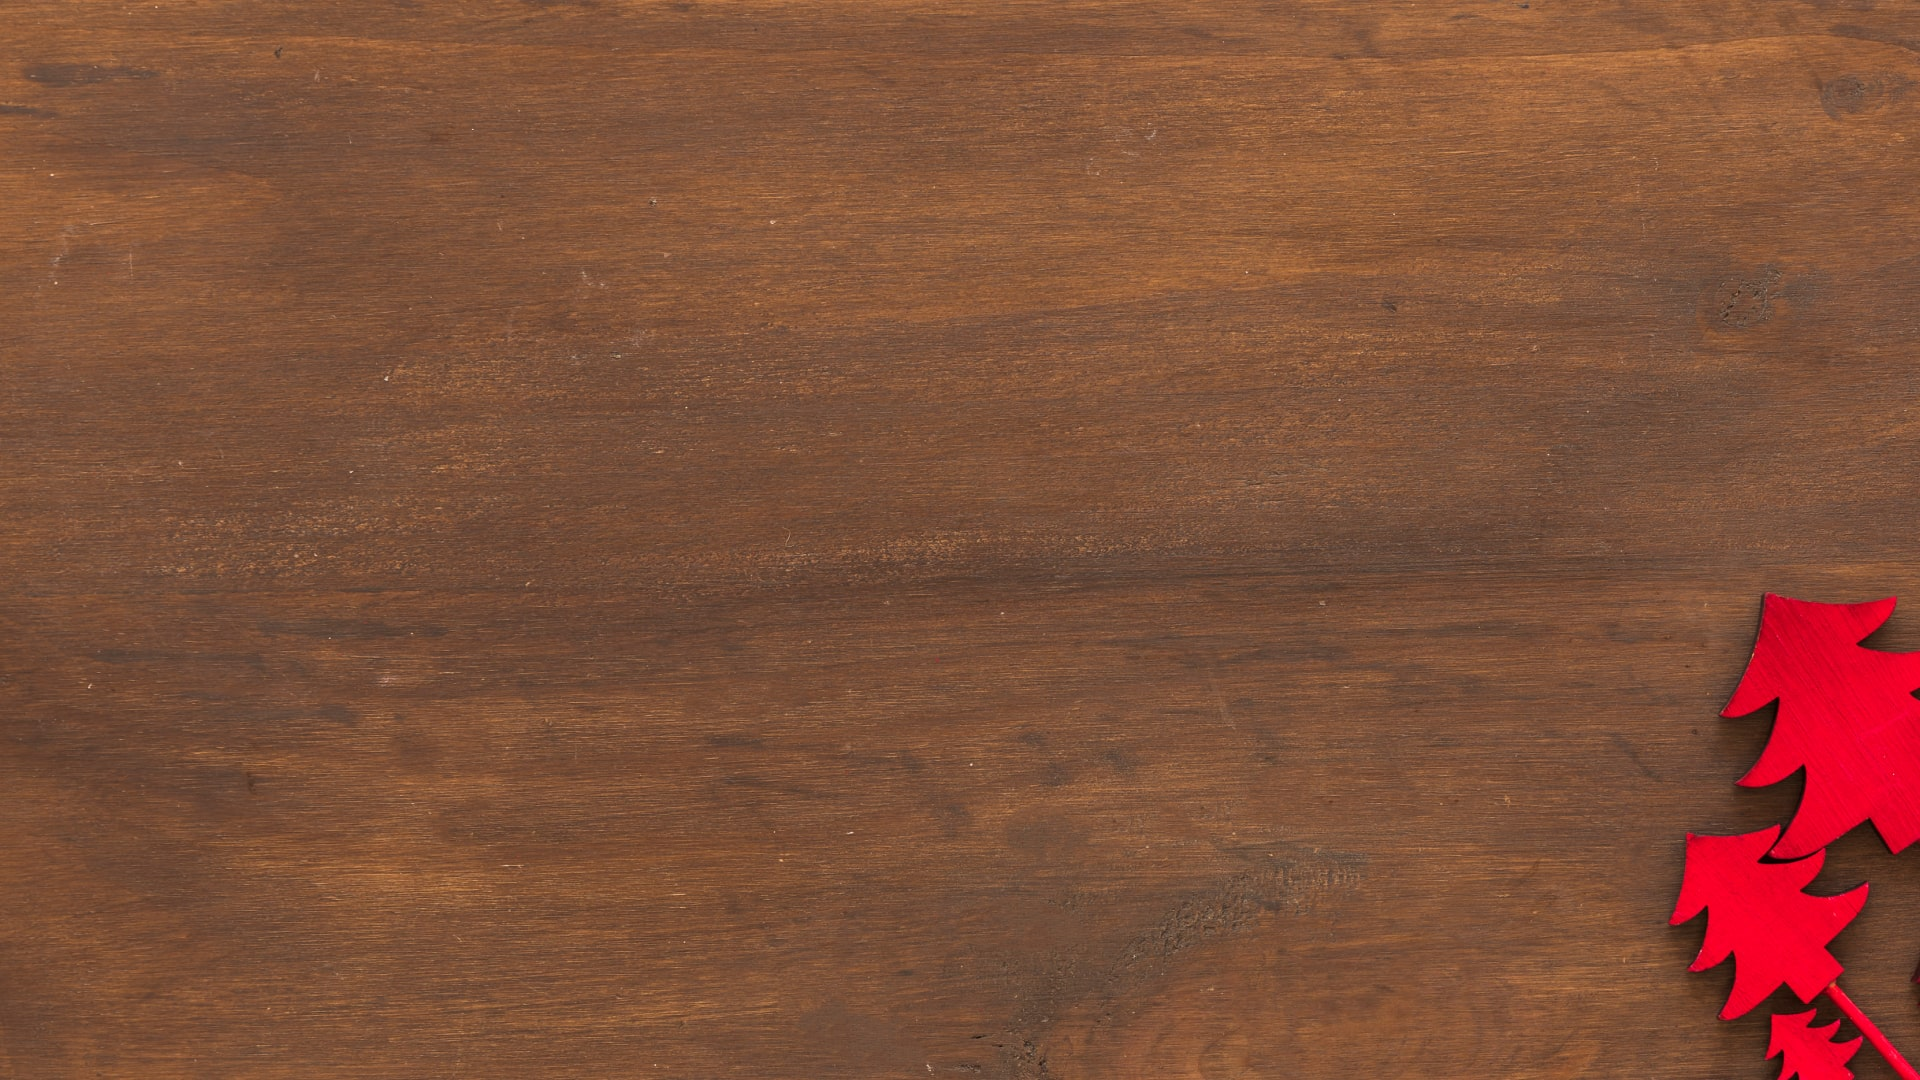
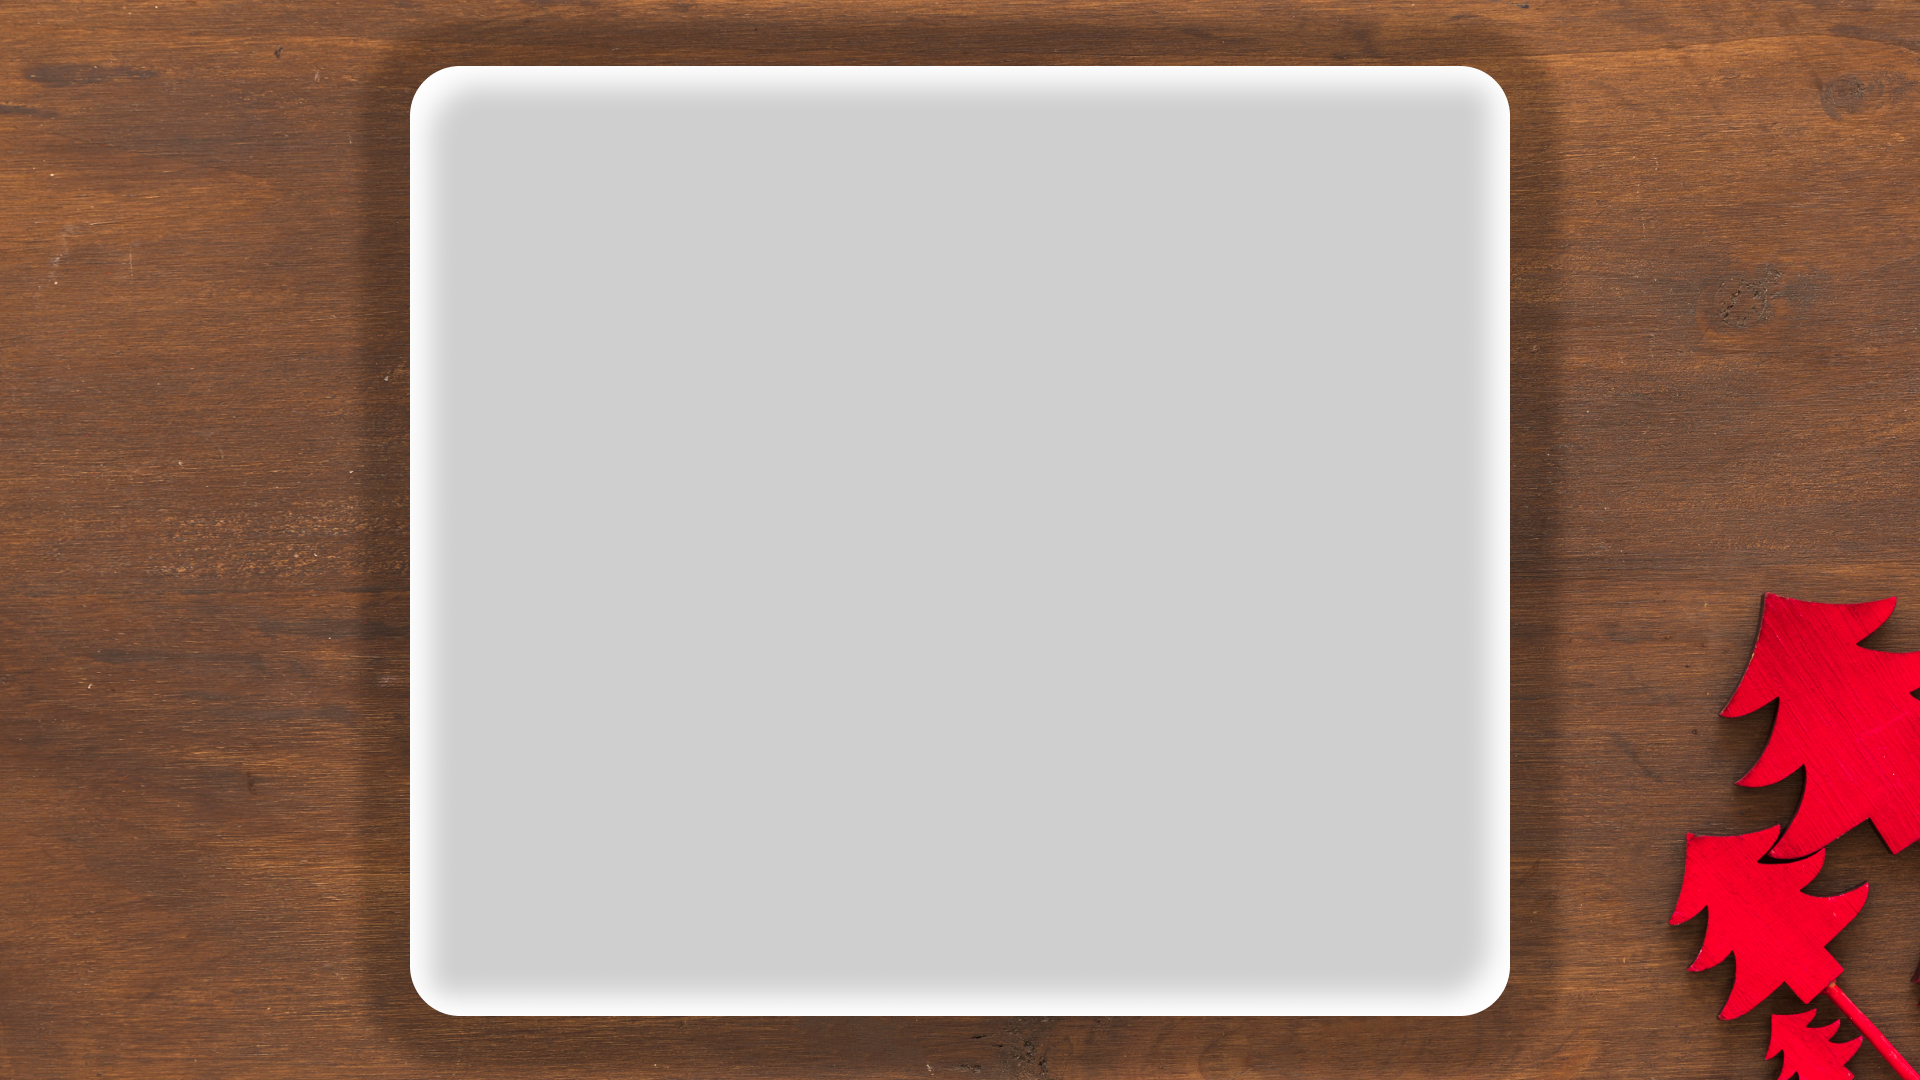
Board drawn

diff --git a/src/main/kotlin/com/codingame/game/Referee.kt b/src/main/kotlin/com/codingame/game/Referee.kt
@@ -7,7 +7,6 @@ import com.codingame.gameengine.module.entities.*
 import com.codingame.gameengine.module.toggle.ToggleModule
 import com.codingame.gameengine.module.tooltip.TooltipModule
 import com.google.inject.Inject
-import kotlin.random.Random
 
 private data class TestCase(
     val width: Int,
@@ -22,7 +21,7 @@ private data class TestCase(
 class Referee : AbstractReferee() {
 
     @Inject private lateinit var gameManager: SoloGameManager<Player>
-    @Inject private lateinit var graphicEntityModule: GraphicEntityModule
+    @Inject private lateinit var graphic: GraphicEntityModule
     @Inject private lateinit var toggleModule: ToggleModule
     @Inject private lateinit var tooltips: TooltipModule
 
@@ -67,7 +66,50 @@ class Referee : AbstractReferee() {
         }
     }
 
+
+    private val cellSize = 150.0
+    val scaling = mapOf(9 to 83 / cellSize, 7 to 107 / cellSize, 5 to 150.0 / cellSize)
+    val scale by lazy { scaling[testCase.height] ?: throw IllegalStateException() }
+    val magnetsPositive = mutableMapOf<Pair<Int, Int>, Sprite>()
+    val magnetsNegative = mutableMapOf<Pair<Int, Int>, Sprite>()
+
     private fun initBoard() {
-        graphicEntityModule.createSprite().setImage("background.jpg")
+        graphic.createSprite().setImage("background.jpg")
+
+        val scaledCellSize = cellSize * scale
+        val cellsWidth = testCase.width * scaledCellSize
+        val cellsHeight = testCase.height * scaledCellSize
+        val board = graphic.createGroup()
+            .setX((graphic.world.width - cellsWidth.toInt() - 200) / 2)
+            .setY((graphic.world.height - cellsHeight.toInt() - 200) / 2)
+        val cells = graphic.createGroup().setX(100).setY(100)
+
+        for (y in 0..<testCase.height) {
+            for (x in 0..<testCase.width) {
+                val actual = testCase.plan[y][x]
+                val targetV = runCatching { testCase.plan[y + 1][x] }.getOrNull()
+                val targetH = runCatching { testCase.plan[y][x + 1] }.getOrNull()
+                when (actual) {
+                    targetV -> {
+                        cells.add(graphic.createSprite().setImage("magnet_frame.png").setX((scaledCellSize * x).toInt()).setY((scaledCellSize * y).toInt()).setScale(scale))
+                        cells.add(graphic.createSprite().setImage("magnet.png").setAnchor(0.5).setX((scaledCellSize * (x + 0.5)).toInt()).setY((scaledCellSize * (y + 1)).toInt()).setScale(0.2).setAlpha(0.0).also { magnetsPositive[x to y] = it })
+                        cells.add(graphic.createSprite().setImage("magnet.png").setAnchor(0.5).setX((scaledCellSize * (x + 0.5)).toInt()).setY((scaledCellSize * (y + 1)).toInt()).setScale(0.2).setAlpha(0.0).setRotation(Math.toRadians(180.0)).also { magnetsNegative[x to y] = it })
+                    }
+                    targetH -> {
+                        cells.add(graphic.createSprite().setImage("magnet_frame.png").setX((scaledCellSize * (x + 2)).toInt()).setY((scaledCellSize * y).toInt()).setScale(scale).setRotation(Math.toRadians(90.0)))
+                        cells.add(graphic.createSprite().setImage("magnet.png").setAnchor(0.5).setX((scaledCellSize * (x + 1)).toInt()).setY((scaledCellSize * (y + 0.5)).toInt()).setScale(0.2).setAlpha(0.0).setRotation(Math.toRadians(270.0)).also { magnetsPositive[x to y] = it })
+                        cells.add(graphic.createSprite().setImage("magnet.png").setAnchor(0.5).setX((scaledCellSize * (x + 1)).toInt()).setY((scaledCellSize * (y + 0.5)).toInt()).setScale(0.2).setAlpha(0.0).setRotation(Math.toRadians(90.0)).also { magnetsNegative[x to y] = it })
+                    }
+                }
+            }
+        }
+
+        testCase.topMarkers.forEachIndexed { i, n -> if (n != -1) cells.add(graphic.createSprite().setImage("$n.png").setAnchorY(1.0).setAnchorX(0.5).setX((scaledCellSize * (i + 0.5)).toInt()).setY(-20)) }
+        testCase.bottomMarkers.forEachIndexed { i, n -> if (n != -1)cells.add(graphic.createSprite().setImage("$n.png").setAnchorY(0.0).setAnchorX(0.5).setX((scaledCellSize * (i + 0.5)).toInt()).setY((cellsHeight + 20).toInt())) }
+        testCase.leftMarkers.forEachIndexed { i, n -> if (n != -1) cells.add(graphic.createSprite().setImage("$n.png").setAnchorY(0.5).setAnchorX(1.0).setX(-20).setY((scaledCellSize * (i + 0.5)).toInt())) }
+        testCase.rightMarkers.forEachIndexed { i, n -> if (n != -1) cells.add(graphic.createSprite().setImage("$n.png").setAnchorY(0.5).setAnchorX(0.0).setX((cellsWidth + 20).toInt()).setY((scaledCellSize * (i + 0.5)).toInt())) }
+        cells.add(graphic.createSprite().setImage("+.png").setAnchorY(1.0).setAnchorX(1.0).setX(-20).setY(-20))
+        cells.add(graphic.createSprite().setImage("-.png").setAnchorY(0.0).setAnchorX(0.0).setX((cellsWidth + 20).toInt()).setY((cellsHeight + 20).toInt()))
+        board.add(cells)
     }
 }

diff --git a/src/main/resources/view/demo.js b/src/main/resources/view/demo.js
@@ -1,0 +1,1 @@
+export const demo = null;
